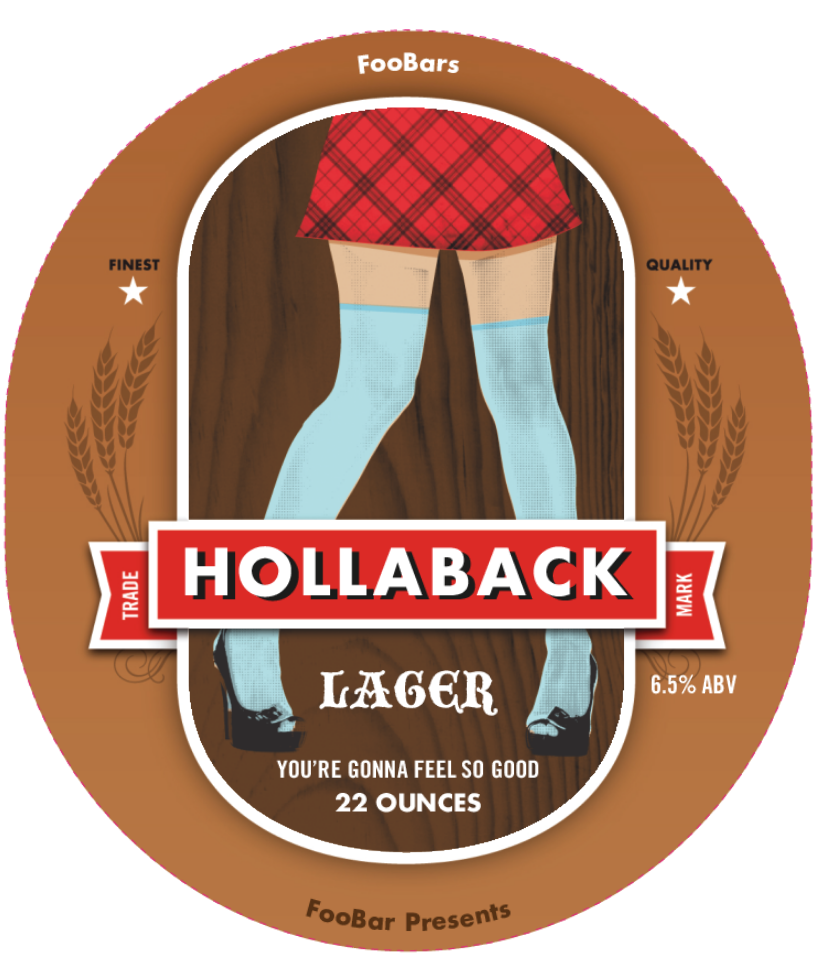
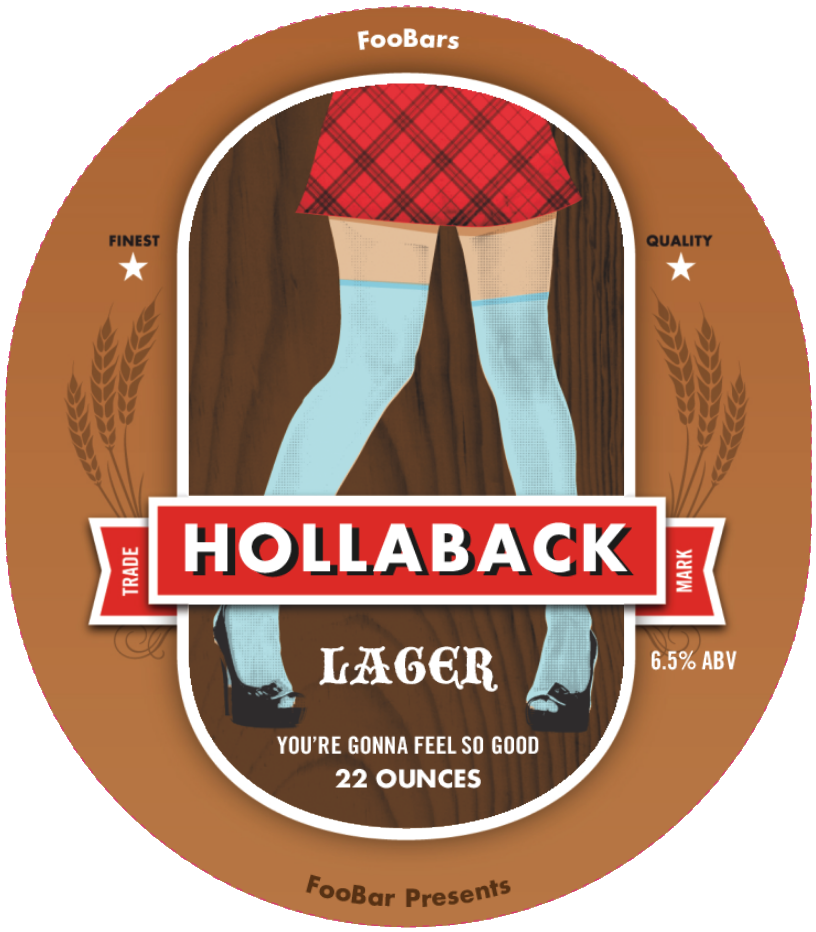
removed whitebackgrounds on png images & added the possibility to pay with cash

diff --git a/orderform.js b/orderform.js
@@ -24,10 +24,12 @@ function initObejcts() {
 }
 
 function initForm() {
-  initMasks();
-  cardnumberValidate();
-  getDate();
-  initDateForm();
+  if (!settings.cashPay) {
+    initMasks();
+    cardnumberValidate();
+    getDate();
+    initDateForm();
+  }
   initEventlisteners();
 }
 
@@ -37,6 +39,7 @@ function initSettings() {
   settings.interval = 2000;
   settings.cardnumberMaskBool = true;
   settings.beerRate = 50;
+  settings.cashPay = false;
 }
 
 function initHTMLpointers() {
@@ -76,12 +79,18 @@ function createUIOrder(beer, amount) {
 function getUrlParams() {
   let params = new URL(document.location);
   params = params.toString();
+
   if (params.indexOf("?") === -1) {
     return;
+  } else if (params.indexOf("&cash") !== -1) {
+    params = params.substring(params.indexOf("?") + 1, params.length - 5);
+    settings.cashPay = true;
+    cashPay();
+  } else {
+    params = params.substring(params.indexOf("?") + 1, params.length);
   }
-  params = params.substring(params.indexOf("?") + 1, params.length);
-  let paramsArray = params.split(",");
 
+  let paramsArray = params.split(",");
   paramsArray = removeUrlSpaces(paramsArray);
   console.log(paramsArray);
   return paramsArray;
@@ -103,12 +112,20 @@ function removeUrlSpaces(paramsArray) {
   return updatedParamsArray;
 }
 
+function cashPay() {
+  HTML.form.style.display = "none";
+  document.querySelector("#payment").textContent = "Cash Payment";
+}
+
 function initMasks() {
   initCodenumberMask();
   initCardnumberMask();
 }
 
 function initEventlisteners() {
+  if (settings.cashPay) {
+    document.querySelector("#order").addEventListener("click", post);
+  }
   HTML.form.cardnumber.addEventListener("input", cardnumberValidate);
   document.querySelector("#order").addEventListener("click", paymentCardCheck);
 }
@@ -145,7 +162,7 @@ function checkCardInput(formArray) {
   });
   return bool;
 }
-
+/* 
 async function getData() {
   const response = await fetch(settings.endpoint, {
     method: "get",
@@ -155,12 +172,12 @@ async function getData() {
   });
   jsonData = await response.json();
   console.log(jsonData);
-}
+} */
 
-function timerFunction() {
+/* function timerFunction() {
   getData();
   setTimeout(timerFunction, settings.interval);
-}
+} */
 
 async function post() {
   let order = getUrlParams();
@@ -219,6 +236,11 @@ function showOrderId(orderNumber) {
   document.querySelector("#order_succes").classList.add("unhide_content");
 
   document.querySelector("#order_succes h3").textContent = orderNumber;
+  if (settings.cashPay) {
+    document.querySelector("#paymentDetails").textContent = "Pay when you pickup your order";
+  } else {
+    document.querySelector("#paymentDetails").textContent = "Your order is payed for";
+  }
   /* document.querySelector("#order_succes button").href = orderNumber; */
 
   document.querySelector("#order_succes").style.opacity = "1";

diff --git a/wordpress.js b/wordpress.js
@@ -19,6 +19,7 @@ window.addEventListener("DOMContentLoaded", start);
 let siteUrl = "http://beansprout.dk/kea/3.semester/eksamensprojekt/orderform/wordpress/";
 let refreshBool = false;
 let beerArray = [];
+let cashButtonCreated = false;
 
 function start() {
   document.querySelector(".page-item-38 a").textContent = "Cart";
@@ -94,6 +95,7 @@ function basketBuilder() {
 
 function setTextBasket() {
   console.log("Text Basket");
+
   // text fields
   if (document.querySelector(".product-name") !== null) {
     document.querySelector(".product-name").textContent = "Beer";
@@ -108,7 +110,16 @@ function setTextBasket() {
 
     //Change text
     document.querySelector("button[name='update_cart']").textContent = "Update Cart";
-    document.querySelector(".wc-proceed-to-checkout a").textContent = "Proceed To Payment";
+
+    document.querySelector(".wc-proceed-to-checkout a").textContent = "Proceed To Pay With Card";
+
+    if (!cashButtonCreated) {
+      let payCash = document.createElement("a");
+      payCash.className = "checkout-button button alt wc-forward";
+      payCash.textContent = "Proceed To Pay With Cash";
+      document.querySelector(".wc-proceed-to-checkout").appendChild(payCash);
+      cashButtonCreated = true;
+    }
     document.querySelector(".cart_totals h2").textContent = "Shopping cart total";
   } else {
     document.querySelector("a.wc-backward").textContent = "Return To Store";
@@ -209,10 +220,14 @@ function setRestoreButton() {
 
 function setPaymentHref() {
   if (document.querySelector(".product-name") !== null) {
-    document.querySelector("a.wc-forward").href = "http://beansprout.dk/kea/3.semester/eksamensprojekt/dist/orderform.html" + "?" + beerArray.toString();
-    //let paramsString = `${siteUrl}?${beerArray.toString()}`;
-    // let searchParams = new URLSearchParams(paramsString);
-    //document.querySelector("a.wc-forward").addEventListener("click", paymentButton);
+    //document.querySelector("a.wc-forward").href = "http://beansprout.dk/kea/3.semester/eksamensprojekt/dist/orderform.html" + "?" + beerArray.toString();
+    document.querySelectorAll("a.wc-forward").forEach((button, index) => {
+      if (index === 0) {
+        button.href = "http://beansprout.dk/kea/3.semester/eksamensprojekt/dist/orderform.html" + "?" + beerArray.toString();
+      } else {
+        button.href = "http://beansprout.dk/kea/3.semester/eksamensprojekt/dist/orderform.html" + "?" + beerArray.toString() + "&" + "cash";
+      }
+    });
   }
 }
 
@@ -224,6 +239,7 @@ function paymentButton() {
 }
 
 function timeoutBasketBuilder() {
+  cashButtonCreated = false;
   setTimeout(basketBuilder, 1500);
   setTimeout(basketBuilder, 2000);
   setTimeout(basketBuilder, 2500);

diff --git a/orderform.html b/orderform.html
@@ -8,7 +8,7 @@
     <link href="https://fonts.googleapis.com/css2?family=Glass+Antiqua&family=Vast+Shadow&display=swap" rel="stylesheet" />
   </head>
   <body>
-    <h2>Payment</h2>
+    <h2 id="payment">Card Payment</h2>
     <template id="orderTemplate">
       <article>
         <img src="" alt="" />
@@ -69,8 +69,10 @@
     </section>
     <section id="order_succes">
       <p>Thank you for your order</p>
+      <p id="paymentDetails"></p>
       <p>Your ordernumber is</p>
       <h3></h3>
+
       <a href="http://beansprout.dk/kea/3.semester/eksamensprojekt/orderform/wordpress/" id="goFrontpage">Go To Frontpage</a>
     </section>
     <script src="orderform.js"></script>

diff --git a/orderform.css b/orderform.css
@@ -264,6 +264,10 @@ input::-webkit-input-placeholder {
   margin-bottom: 6px;
 }
 
+/* #order_succes #paymentDetails{
+  dis
+} */
+
 .rotate_load {
   animation: rotate_load 1.2s cubic-bezier(0.75, 0, 0.32, 0.99) infinite;
 }

diff --git a/dashboard.css b/dashboard.css
@@ -168,6 +168,7 @@ h3 {
   /*   margin-right: 5%; */
   /* max-height: 800px; */
   /* object-fit: contain; */
+  object-fit: contain;
   transition: 0.5s ease-in max-height;
 }
 
